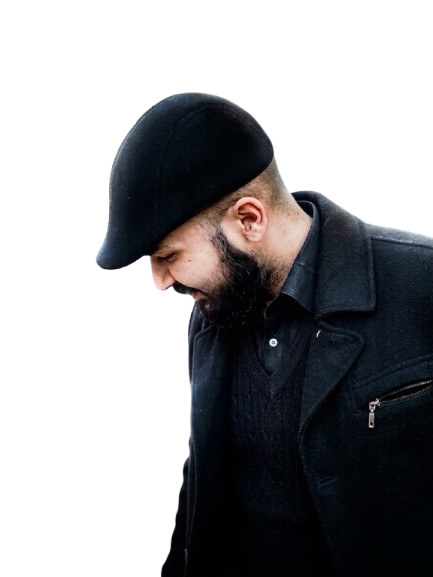
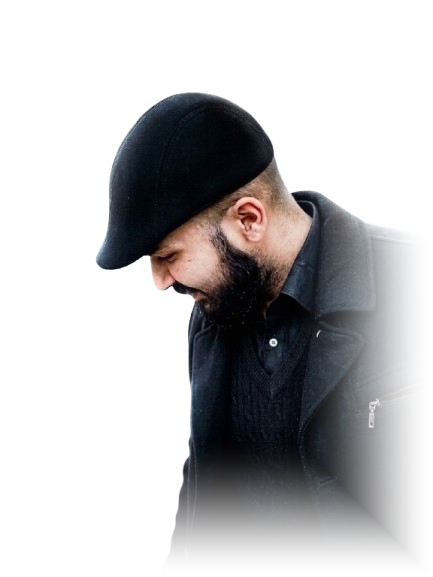
fix(hero): resolve portrait image cut-off and responsive positioning across all screen sizes

Changed region(s): [[0.3603, 0.3432, 1.0, 1.0]]

diff --git a/src/components/HeroSection.tsx b/src/components/HeroSection.tsx
@@ -52,19 +52,19 @@ export default function HeroSection({ profile }: HeroSectionProps) {
         <div className="absolute inset-0 bg-gradient-to-b from-black/40 via-transparent to-black/80 pointer-events-none z-[1]" />
 
         {/* --- Desktop Center / Background Portrait Layer (z-2) --- */}
-        <div className="hidden lg:flex absolute bottom-6 left-[44%] xl:left-[55%] -translate-x-1/2 w-[430px] xl:w-[460px] pointer-events-none z-[2] items-end justify-center transition-all duration-300">
+        <div className="hidden lg:flex absolute bottom-0 lg:left-[54%] xl:left-[56%] 2xl:left-[57%] -translate-x-1/2 w-[350px] lg:w-[380px] xl:w-[440px] 2xl:w-[480px] pointer-events-none z-[2] items-end justify-center transition-all duration-300">
           <Image
             src="/gallery/black-me.png"
             alt={name}
             width={800}
             height={1000}
             priority
-            className="w-full h-auto object-contain select-none [mask-image:radial-gradient(ellipse_75%_70%_at_50%_45%,black_35%,rgba(0,0,0,0.75)_52%,rgba(0,0,0,0.15)_68%,transparent_82%)] [-webkit-mask-image:radial-gradient(ellipse_75%_70%_at_50%_45%,black_35%,rgba(0,0,0,0.75)_52%,rgba(0,0,0,0.15)_68%,transparent_82%)]"
+            className="w-full h-auto object-contain select-none [mask-image:linear-gradient(to_bottom,black_82%,transparent_100%)] [-webkit-mask-image:linear-gradient(to_bottom,black_82%,transparent_100%)]"
           />
         </div>
 
         {/* --- Hero Main Content Grid (z-20) --- */}
-        <div className="relative z-20 w-full max-w-7xl mx-auto grid grid-cols-1 lg:grid-cols-12 gap-8 items-center my-auto pt-4 sm:pt-8 pb-6">
+        <div className="relative z-20 w-full max-w-7xl mx-auto grid grid-cols-1 lg:grid-cols-12 gap-6 lg:gap-8 items-center my-auto pt-6 sm:pt-10 pb-6">
 
           {/* Left Column: Heading & Description & CTAs (5 cols) */}
           <div className="lg:col-span-5 flex flex-col justify-center text-left">
@@ -96,11 +96,11 @@ export default function HeroSection({ profile }: HeroSectionProps) {
               </span>
             </h1>
 
-            {/* Mobile Portrait Display (Unobstructed, cleanly positioned between headline and bio) */}
-            <div className="flex lg:hidden justify-center items-center my-5 relative">
-              <div className="relative w-[210px] sm:w-[260px] aspect-[4/5] flex items-center justify-center">
+            {/* Mobile / Tablet Portrait Display (Cleanly positioned between headline and bio) */}
+            <div className="flex lg:hidden justify-center items-center my-6 relative">
+              <div className="relative w-[220px] sm:w-[280px] md:w-[320px] aspect-[4/5] flex items-center justify-center">
                 <div
-                  className="absolute inset-0 blur-2xl rounded-full opacity-40"
+                  className="absolute inset-0 blur-2xl rounded-full opacity-40 pointer-events-none"
                   style={{ backgroundColor: currentTheme.glow_color }}
                 />
                 <Image
@@ -109,7 +109,7 @@ export default function HeroSection({ profile }: HeroSectionProps) {
                   width={600}
                   height={750}
                   priority
-                  className="w-full h-auto object-contain relative z-10 [mask-image:radial-gradient(ellipse_80%_75%_at_50%_45%,black_45%,rgba(0,0,0,0.8)_60%,rgba(0,0,0,0.2)_75%,transparent_90%)] [-webkit-mask-image:radial-gradient(ellipse_80%_75%_at_50%_45%,black_45%,rgba(0,0,0,0.8)_60%,rgba(0,0,0,0.2)_75%,transparent_90%)]"
+                  className="w-full h-auto object-contain relative z-10 select-none [mask-image:linear-gradient(to_bottom,black_85%,transparent_100%)] [-webkit-mask-image:linear-gradient(to_bottom,black_85%,transparent_100%)]"
                 />
               </div>
             </div>
@@ -172,9 +172,9 @@ export default function HeroSection({ profile }: HeroSectionProps) {
             </div>
           </div>
 
-          {/* Center Column: Disciplinary tags (Visible cleanly on large screens) */}
-          <div className="hidden lg:flex lg:col-span-4 relative flex-col items-center justify-between min-h-[520px] pointer-events-none">
-            <div className="w-full text-right space-y-0.5 pointer-events-auto">
+          {/* Center Column: Disciplinary tags (Positioned with proper breathing room below navbar) */}
+          <div className="hidden lg:flex lg:col-span-4 relative flex-col items-center justify-between min-h-[480px] xl:min-h-[530px] pointer-events-none">
+            <div className="w-full text-right space-y-1 pointer-events-auto pt-8 xl:pt-14 pr-2">
               <p className="text-[10px] font-mono text-zinc-400 uppercase tracking-widest">
                 /focus & credentials
               </p>
